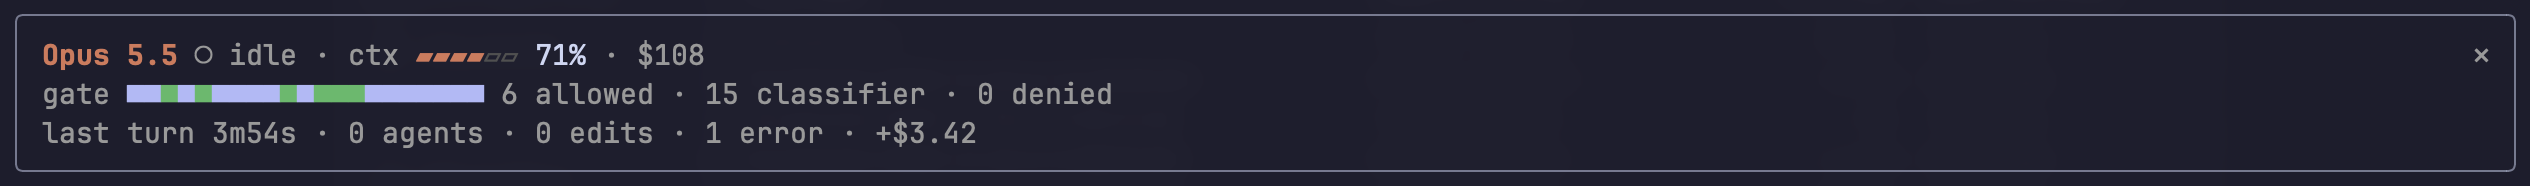
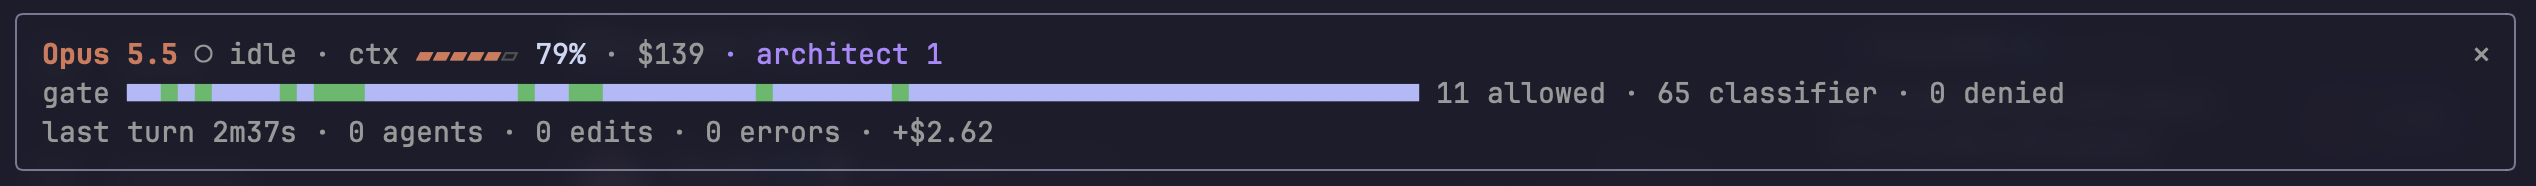
README: inline screenshot with the architect count and a full gate strip
Claude-Session: https://claude.ai/code/session_01T8ke23ySnV8LQqasDmtq3X

diff --git a/README.md b/README.md
@@ -55,7 +55,7 @@ https://github.com/user-attachments/assets/9ad0fcc3-c81c-427a-a743-f7b6c49f5885
 
 | Docked beside the transcript | Inline above the prompt |
 | --- | --- |
-| <img src="docs/media/docked-pane.png" alt="The docked pane: main model vitals, architect timeline, permission gate, five agents as swimlanes, last-turn receipt and session log" width="380"> | <img src="docs/media/inline-mini.png" alt="The inline mini layout: the model, context gauge and session cost; the permission gate strip and totals; the last turn's duration, agents, edits, errors and cost" width="420"><br><br>On the main screen, without fullscreen, the pane is a summary of at most 8 rows; up to 3 agents join it when the session has subagents. |
+| <img src="docs/media/docked-pane.png" alt="The docked pane: main model vitals, architect timeline, permission gate, five agents as swimlanes, last-turn receipt and session log" width="380"> | <img src="docs/media/inline-mini.png" alt="The inline mini layout: the model, context gauge, session cost and architect consults; the permission gate strip and totals; the last turn's duration, agents, edits, errors and cost" width="420"><br><br>On the main screen, without fullscreen, the pane is a summary of at most 8 rows; up to 3 agents join it when the session has subagents. |
 
 | Panel | Shows | From |
 | --- | --- | --- |
